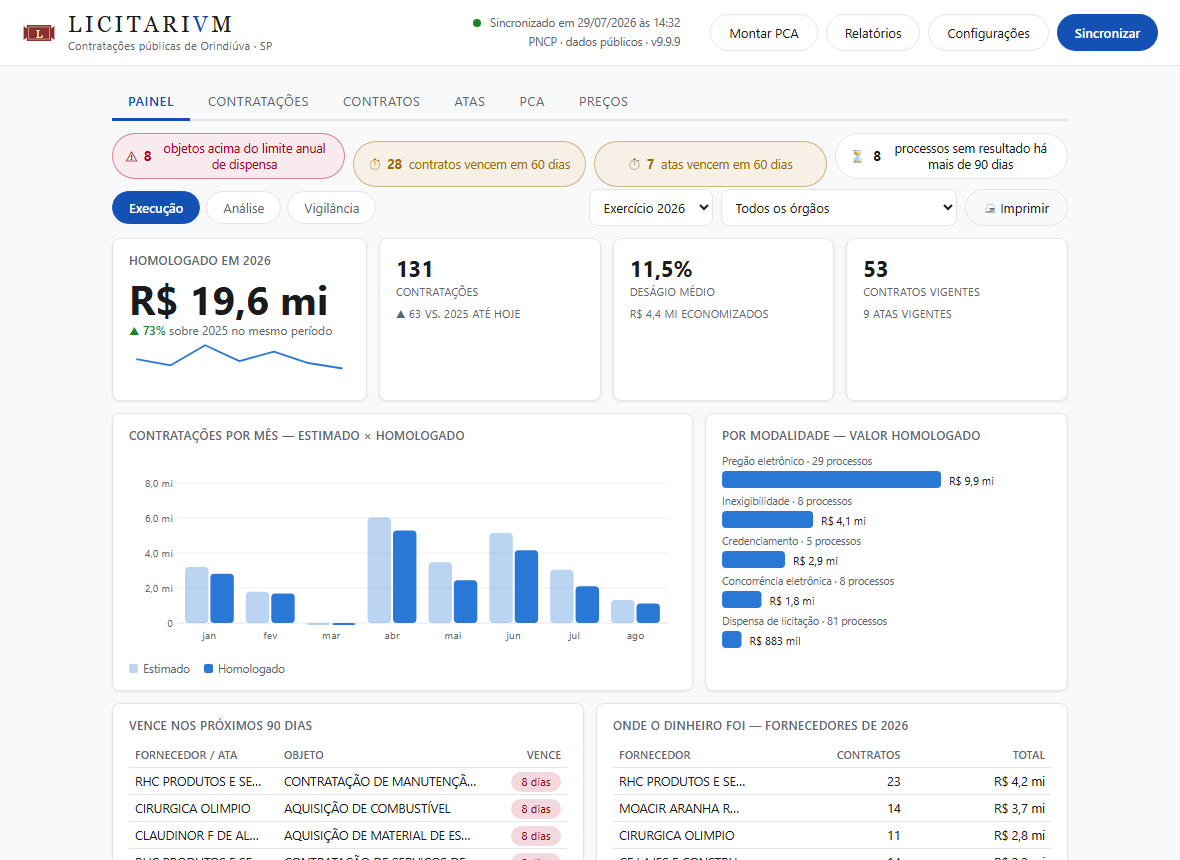
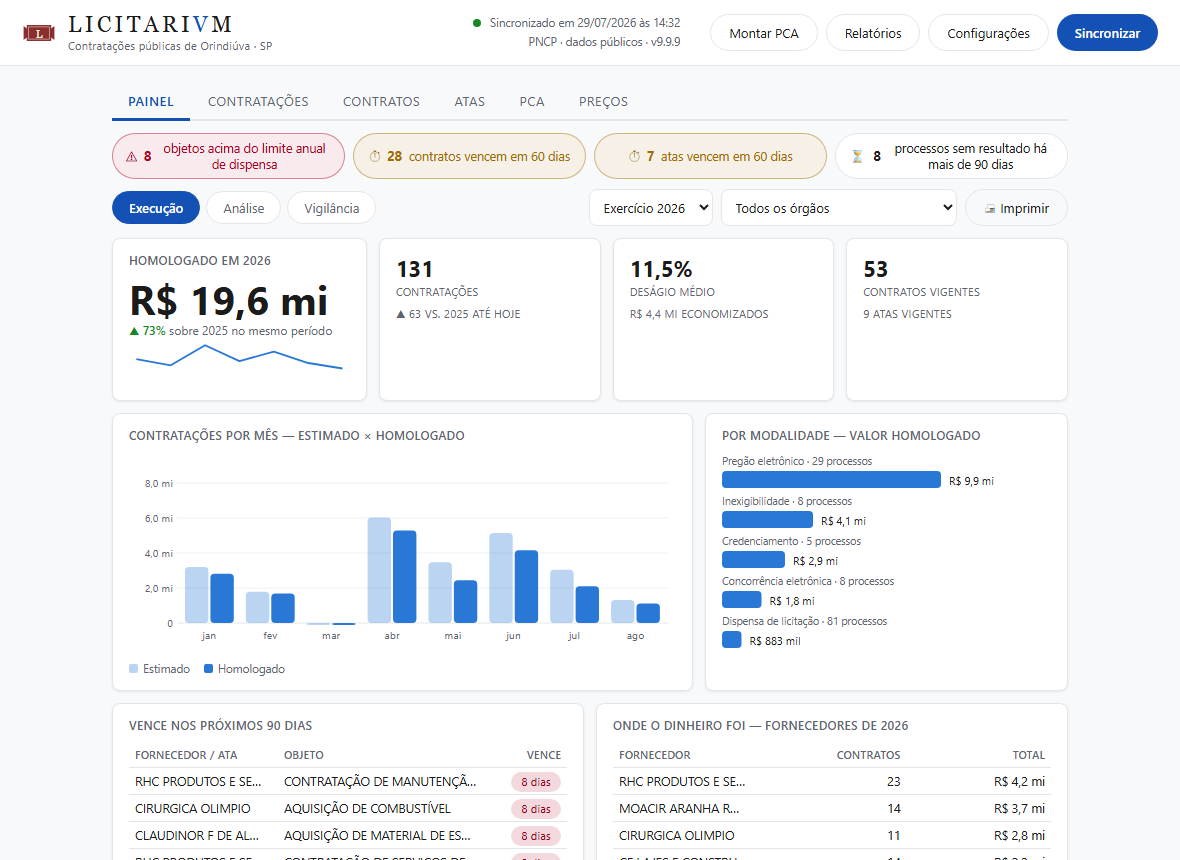
fix: chip.aviso herdava margin-top de classe .aviso genérica — v1.13.3
Mesmo print do usuario, terceira rodada: os cards tinham a MESMA altura
(fix da v1.13.1) mas o usuario apontou que continuavam desalinhados
verticalmente — "todos devem ficar no mesmo nivel". Medi Y de cada chip
em vez de só a altura, e achei: chips 1 e 2 (classe "aviso", os dois de
vencimento) sentavam 8px mais baixo que os irmaos "grave"/plano, com
h=46 identico nos quatro.

Causa: colisao de nome de classe. Existe uma .aviso generica no CSS
(texto de aviso sob campo de formulario, longe dali no arquivo) com
margin-top:8px. Os chips de vencimento sao class="chip aviso" e
herdavam essa margem sem relacao nenhuma com o alerta do Painel — nunca
e obvio que duas secoes distantes do stylesheet compartilham uma classe.

.chip.aviso { margin-top:0 } resolve (a especificidade do composto ja
venceria, faltava so a declaracao). Como altura ja era igual, o teste
de altura da v1.13.1 nao detectava isto — precisou de teste novo
medindo posicao Y, nao so tamanho.

253 pytest + 101 E2E. Teste novo conferido mordendo ao reverter so o
margin-top:0 (chip volta a y=141 contra y=133 dos outros).

Changed region(s): [[0.3051, 0.1512, 0.7017, 0.2116]]

diff --git a/tests-e2e/painel.spec.js b/tests-e2e/painel.spec.js
@@ -377,9 +377,33 @@ test("os 5 alertas possíveis cabem numa linha só até a largura mínima da jan
   await expect(chips).toHaveCount(5);
   const ys = await chips.evaluateAll(
     els => els.map(el => Math.round(el.getBoundingClientRect().y)));
-  // mesma linha: nenhum chip pode estar mais de 1-2px abaixo do primeiro
-  // (variação de borda entre .chip.grave/.chip.aviso e o resto)
+  // mesma linha: <10 aceita ruído de sub-pixel, mas NÃO os 8px do bug de
+  // .chip.aviso abaixo (esse limiar frouxo já deixou o bug passar batido
+  // uma vez — se voltar, este teste tem de morder de novo)
   for (const y of ys) expect(Math.abs(y - ys[0])).toBeLessThan(10);
+});
+
+test("chip.aviso não herda margin-top da classe .aviso genérica",
+    async ({ page }) => {
+  // achado real (usuário, 2026-08-08, segunda rodada sobre o mesmo print):
+  // existe uma classe .aviso solta no CSS (texto de aviso sob campo de
+  // formulário) com margin-top:8px. Os dois chips de vencimento têm
+  // class="chip aviso" e herdavam essa margem por colisão de nome — 8px
+  // mais baixos que os irmãos "grave"/plano, com a MESMA altura (por
+  // isso o teste de altura, sozinho, não pegava isto).
+  await page.evaluate(() => {
+    window.__painel = { ...window.PAINEL_DADOS,
+      alertas: { perto_do_limite: 1, acima_do_limite: 0,
+                 vencendo_contratos: 1, vencendo_atas: 1,
+                 propostas: 1, paradas: 0 } };
+  });
+  await page.locator("#p-ano").selectOption({ index: 0 });
+  const chips = page.locator("#painel-chips .chip");
+  await expect(chips).toHaveCount(4);
+  const ys = await chips.evaluateAll(
+    els => els.map(el => Math.round(el.getBoundingClientRect().y)));
+  // todos exatamente na mesma linha — sem a folga de 10px do teste acima
+  for (const y of ys) expect(y).toBe(ys[0]);
 });
 
 test("trocar de subaba não vai ao banco de novo", async ({ page }) => {

diff --git a/MANUAL.html b/MANUAL.html
@@ -2,11 +2,11 @@
 <html lang="pt-BR">
 <head>
 <meta charset="utf-8">
-<title>Manual Operacional — Licitarium v1.13.2</title>
+<title>Manual Operacional — Licitarium v1.13.3</title>
 <style>
   @page {
     size: A4; margin: 2cm 1.8cm;
-    @top-center { content: "Licitarium v1.13.2 — Manual Operacional"; font-size: 9pt; color: #6f5b3e; }
+    @top-center { content: "Licitarium v1.13.3 — Manual Operacional"; font-size: 9pt; color: #6f5b3e; }
     @bottom-right { content: "Página " counter(page) " de " counter(pages);
                     font-size: 9pt; color: #6f5b3e; }
   }
@@ -150,7 +150,7 @@
           fill="var(--text)" text-anchor="middle">MMXXVI</text>
   </svg>
   <h1 class="mark">LICITARI<b>V</b>M</h1>
-  <div class="subtitulo">MANUAL DO USUÁRIO · VERSÃO 1.13.2</div>
+  <div class="subtitulo">MANUAL DO USUÁRIO · VERSÃO 1.13.3</div>
 </header>
 
 <h2>1. O que é o Licitarium</h2>
@@ -165,7 +165,7 @@ sincronizado e se atualiza sozinho a cada abertura. O Licitarium apenas
 <h2>2. Instalação</h2>
 <h3>Pelo executável (recomendado)</h3>
 <ol>
-  <li>Baixe o <code>Licitarium.v1.13.2.exe</code> na página de releases do
+  <li>Baixe o <code>Licitarium.v1.13.3.exe</code> na página de releases do
       projeto — o nome do arquivo traz a versão, então dá para saber qual
       você tem sem abrir o programa.</li>
   <li>Execute. Não precisa instalar, nem ter Python, nem direitos de administrador.</li>

diff --git a/ui/estilo.css b/ui/estilo.css
@@ -480,9 +480,13 @@ details.raw pre { background:var(--surface2); border-radius:var(--radius);
 .chip.grave { border-color:color-mix(in srgb, var(--erro) 45%, transparent);
               background:color-mix(in srgb, var(--erro) 8%, var(--surface));
               color:var(--erro); }
+/* colisão de nome: existe uma classe .aviso genérica (texto de aviso sob
+   campo de formulário) com margin-top:8px — como o chip de vencimento é
+   "chip aviso", herdava essa margem e ficava 8px mais baixo que os
+   irmãos "grave"/plano na mesma fileira do grid, apesar da mesma altura */
 .chip.aviso { border-color:color-mix(in srgb, var(--warn) 45%, transparent);
               background:color-mix(in srgb, var(--warn) 10%, var(--surface));
-              color:var(--warn); }
+              color:var(--warn); margin-top:0; }
 /* enquanto o painel busca os dados: sinal discreto, sem trocar o conteúdo
    por um esqueleto — a consulta leva ~150 ms, e piscar seria pior */
 .painel.carregando .vista { opacity:.45; transition:opacity .12s; }

diff --git a/licitarium.py b/licitarium.py
@@ -27,7 +27,7 @@ import pca_builder
 import pncp
 import relatorios
 
-VERSAO = "1.13.2"
+VERSAO = "1.13.3"
 # dentro do exe onefile os arquivos ficam na pasta temporária do bundle;
 # _MEIPASS é o caminho oficial para chegar até eles
 DIR_APP = Path(getattr(sys, "_MEIPASS", Path(__file__).resolve().parent))

diff --git a/design/DASHBOARD.md b/design/DASHBOARD.md
@@ -75,6 +75,20 @@ janela (`min_size=(900,600)` no `webview.create_window`, `licitarium.py`
 `painel.spec.js` ("os 5 alertas possíveis cabem numa linha só...") monta
 os 5 alertas via `window.__painel` e mede a viewport no mínimo absoluto.
 
+**Terceiro round, mesmo print do usuário: `.chip.aviso` ficava 8px mais
+baixo que os irmãos, com a MESMA altura** (por isso o teste de altura
+não pegava — height igual, position diferente). Causa: colisão de
+nome de classe. Existe uma `.aviso` genérica no CSS (texto de aviso sob
+campo de formulário) com `margin-top:8px`; os dois chips de vencimento
+têm `class="chip aviso"` e herdavam essa margem sem eu perceber, porque
+nunca é óbvio que duas seções bem distantes do arquivo compartilham uma
+classe. `.chip.aviso { margin-top:0 }` resolve — a especificidade do
+composto (duas classes) já venceria a `.aviso` sozinha de qualquer jeito,
+o problema era só a declaração faltando. **Lição**: `height` igual não
+prova alinhamento; teste teria de medir `y`, não só `height` — o de
+altura ficou como está (pega quebra de linha), o de posição é novo
+("chip.aviso não herda margin-top...").
+
 ## Regras dos gráficos
 
 Seguem o método de `dataviz` (skill), com a paleta validada pelo script de seis

diff --git a/CHANGELOG.md b/CHANGELOG.md
@@ -1,5 +1,21 @@
 # Changelog
 
+## 1.13.3 — 2026-08-08
+
+**Chips de vencimento 8px mais baixos que os irmãos**
+
+- Mesmo print do usuário, terceira rodada: os cards tinham a mesma altura
+  mas ficavam visivelmente desalinhados verticalmente. Causa: colisão de
+  nome de classe. Uma classe `.aviso` genérica do CSS (texto de aviso sob
+  campo de formulário) tem `margin-top:8px`; os dois chips de vencimento
+  são `class="chip aviso"` e herdavam essa margem sem relação nenhuma
+  com o alerta do Painel.
+- `.chip.aviso { margin-top:0 }` resolve. Como altura já era igual, o
+  teste de altura anterior não detectava — precisou de um teste novo
+  medindo posição, não só tamanho.
+
+253 pytest + 101 E2E.
+
 ## 1.13.2 — 2026-08-08
 
 **5º alerta quebrava pra uma linha sozinho**
